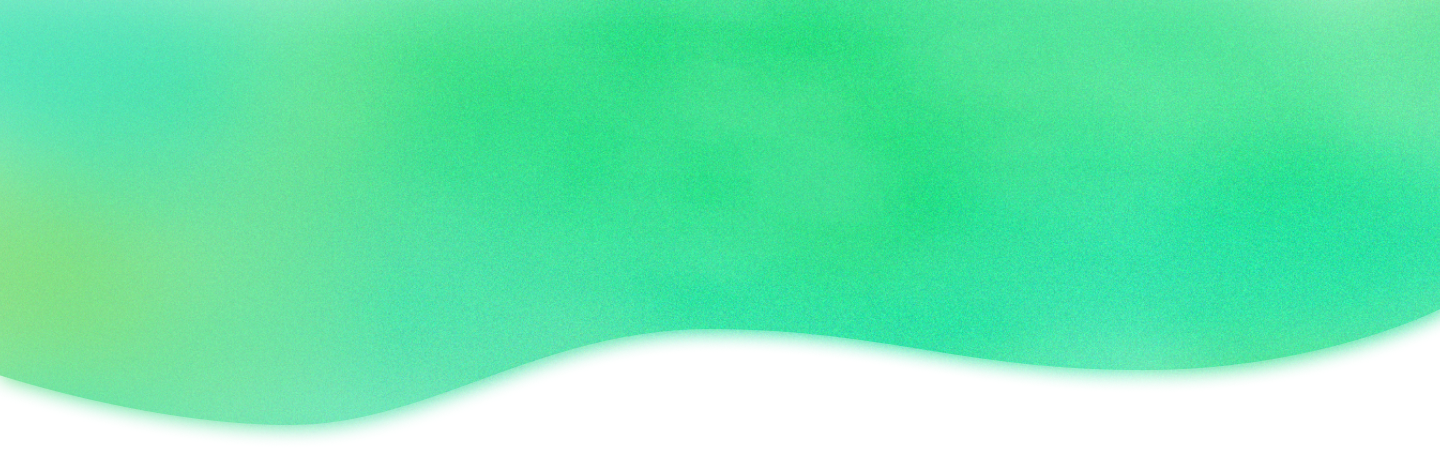
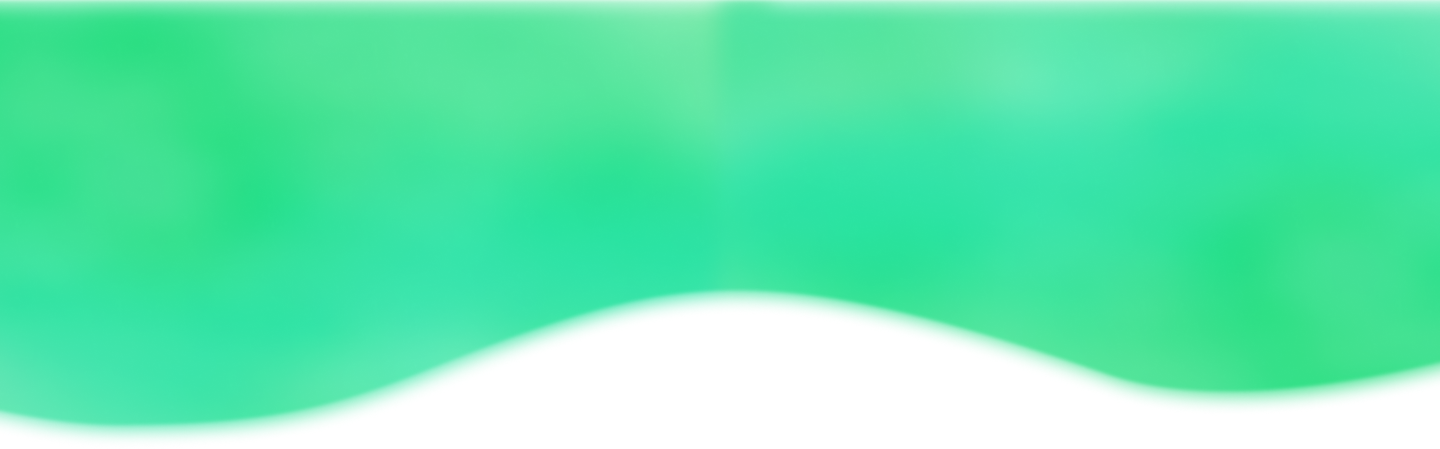
main스타일

diff --git a/src/components/Main/style.ts b/src/components/Main/style.ts
@@ -6,20 +6,56 @@ export const MainContainer = styled.div`
     display: flex;
     flex-direction: column;
     align-items: center;
-    overflow-y: auto;
-
     font-family: Pretendard-regular;
+    padding: 0; // Ensure there's no padding that can affect the full-width layout
+    margin: 0; // Ensure there's no margin
+`
+export const BannerImage = styled.img`
+    width: 1450px;
+    height: 550px;
+    z-index: -1;
+    object-fit: cover;
+    position: absolute;
+    top: 0;
+    left: 0;
 `
 
-export const BannerContainer = styled.div`
-    width: 100%;
-    height: 300px;
-    background-color: #1dcb8e;
-    display: flex;
-    flex-direction: column;
-    justify-content: flex-start;
-    align-items: center;
-`
+export const BannerContainer = styled.div``
+
+// export const BannerContainer = styled.div`
+//     width: 1450px;
+//     height: 550px; /* height 값을 늘림 */
+//     flex-shrink: 0;
+//     background-color: #FAFAFA;
+//     background-image: url('MainBanner.png');
+//     background-position: center; /* 이미지를 가운데로 정렬 */
+//     background-size: cover; /* 이미지를 컨테이너에 맞게 확대 또는 축소 */
+//     background-repeat: no-repeat;
+//     position: relative;
+
+//     &::before,
+//     &::after {
+//         content: '';
+//         position: absolute;
+//         width: 100%;
+//         height: 20px;
+//         background: url('wave-image.png');
+//         background-repeat: repeat-x;
+//         animation: wave-animation 5s linear infinite;
+//         background-size: cover;
+//     }
+
+//     &::before {
+//         top: 0;
+//         background-position: 0 0;
+//     }
+
+//     &::after {
+//         bottom: 0;
+//         background-position: 0 100%;
+//     }
+// `
+// ====================================================
 
 export const BtnContainer = styled.div`
     display: flex;
@@ -100,16 +136,111 @@ export const Text1 = styled.h2`
     font-size: 20px;
 `
 export const Text2 = styled.div`
-    color: aliceblue;
-    margin-top: 20px;
-    font-size: 25px;
-    font-weight: bold;
-    text-align: left;
+    color: #353535;
+    font-family: Pretendard Variable;
+    font-size: 22px;
+    font-style: normal;
+    font-weight: 700;
+    line-height: 28px; /* 127.273% */
 `
 export const Text3 = styled.h2`
-    color: aliceblue;
+    color: #353535;
     margin-top: 20px;
-    font-size: 35px;
-    font-weight: bold;
-    text-align: left;
+    font-family: Pretendard Variable;
+    font-size: 30px;
+    font-style: normal;
+    font-weight: 700;
+    line-height: 36px; /* 120% */
+`
+
+// export const PetBackImage = styled.h2`
+//     position: absolute;
+//     top: 50%;
+//     left: 50%;
+//     transform: translate(-50%, -50%);
+//     z-index: -1;
+// `
+
+// export const PetBackImage = styled.img`
+//     position: absolute;
+//     top: 140vh; // 화면 높이에 비례하여 위치 조정
+//     left: 50%;
+//     transform: translateX(-50%);
+//     z-index: -1;
+//     width: 100vw; // 화면 너비의 100% 차지
+//     height: auto; // 이미지의 종횡비 유지
+//     padding-top: 100px;
+// `
+
+export const PetText = styled.div`
+    flex: 1; // 텍스트 영역이 차지할 공간
+    text-align: left; // 텍스트 왼쪽 정렬
+    color: #000;
+    font-family: Pretendard Variable;
+    font-size: 30px;
+    font-style: normal;
+    font-weight: 700;
+    line-height: 36px; /* 120% */
+`
+export const PetText1 = styled.div`
+    flex: 1; // 텍스트 영역이 차지할 공간
+    text-align: left; // 텍스트 왼쪽 정렬
+    margin-right: 50px;
+    color: var(--Gray3, #575756);
+    font-family: Pretendard Variable;
+    font-size: 18px;
+    font-style: normal;
+    font-weight: 400;
+    line-height: 20px;
+    margin-top: 10px;
+`
+export const PetText2 = styled.div`
+    flex: 1; // 텍스트 영역이 차지할 공간
+    text-align: left; // 텍스트 왼쪽 정렬
+    margin-right: 50px;
+    color: var(--Gray3, #575756);
+    font-family: Pretendard Variable;
+    font-size: 14px;
+    font-style: normal;
+    font-weight: 400;
+    line-height: 16px; /* 114.286% */
+    margin-top: 30px;
+`
+
+export const PetContent = styled.div`
+    display: flex;
+    align-items: center;
+    justify-content: space-between;
+    width: 100%;
+    max-width: 1280px;
+    position: relative; // This will ensure the content is on top of the background image
+`
+
+export const PetTextWrapper = styled.div`
+    display: flex;
+    flex-direction: column; // 텍스트를 수직으로 나열합니다.
+    margin-right: 10px; // 이미지와의 간격을 설정합니다.
+    align-items: flex-start; // 텍스트를 왼쪽 정렬합니다.
+`
+
+export const MainTopWrapper = styled.div`
+    display: flex; // 이미지도 flex 아이템으로 만듭니다.
+    flex-direction: column; // 이미지 내부 아이템을 수직으로 나열합니다.
+    align-items: center; // 이미지 내부 아이템을 중앙 정렬합니다.
+`
+export const OverlayContainer = styled.div`
+    position: relative;
+    width: 100%;
+    max-width: 1280px;
+    margin: auto;
+`
+
+export const PetBackImage = styled.img`
+    position: absolute;
+    top: 0;
+    left: 50%;
+    transform: translateX(-50%);
+    z-index: -1; // Ensures it's behind the content
+    width: 100vw; // Now the image will span the full width of the viewport
+    height: auto; // Maintain aspect ratio
 `

diff --git a/src/components/Main/MainTop/style.ts b/src/components/Main/MainTop/style.ts
@@ -1,72 +1,19 @@
-// import styled from 'styled-components'
+import styled from 'styled-components'
 
-// export const TopContainer = styled.div`
-//     max-width: 1800px;
-//     margin: 50px auto;
-//     display: flex;
-//     flex-direction: column;
-//     align-items: center;
-// `
+export const TopContainer = styled.div`
+    max-width: 2000px;
+    margin: 50px auto;
+    padding-top: 150px;
+    display: flex;
+    flex-direction: column;
+    align-items: center;
+`
 
 // export const Text = styled.h2`
 //     font-size: 35px;
 //     font-weight: bold;
 //     margin-bottom: 20px;
 // `
-
-// export const Content = styled.div`
-//     display: flex;
-//     flex-wrap: wrap;
-//     justify-content: center;
-//     gap: 20px;
-//     max-width: 600px;
-//     margin: auto;
-// `
-
-// export const Inside = styled.div`
-//     flex: 0 0 calc(33.333% - 20px);
-//     height: 213px;
-//     flex-shrink: 0;
-//     overflow: hidden;
-//     border-radius: 15px;
-//     box-shadow: 0 1px 1px rgba(0, 0, 0, 0.2);
-
-//     &:nth-child(odd) {
-//         align-self: flex-start;
-//         /* flex-basis: calc(50% - 20px);  */
-//         flex-basis: calc(33.333% 250px);
-//         height: 213px;
-//     }
-//     &:nth-child(even) {
-//         align-self: flex-end;
-//         /* flex-basis: calc(40% - 20px); */
-//         flex-basis: calc(33.333% 250px);
-//         height: 230.357px;
-//         margin-top: 50px;
-//     }
-// `
-
-// export const Img = styled.img`
-//     width: 100%;
-//     height: 100%;
-//     object-fit: cover;
-// `
-
-import styled from 'styled-components'
-
-export const TopContainer = styled.div`
-    max-width: 2000px;
-    margin: 50px auto;
-    display: flex;
-    flex-direction: column;
-    align-items: center;
-`
-
-export const Text = styled.h2`
-    font-size: 35px;
-    font-weight: bold;
-    margin-bottom: 20px;
-`
 
 export const Content = styled.div`
     display: grid;

diff --git a/src/components/Main/Main.tsx b/src/components/Main/Main.tsx
@@ -15,6 +15,7 @@ const Main: React.FC = () => {
         <ST.MainContainer>
             <ST.BannerContainer>
                 <ST.Warp>
+                    <ST.BannerImage src="/public/MainBanner.png" alt="Main Banner" />
                     <ST.Text2>
                         반려동물과 함께하는 매칭서비스, 와르와르 <br />
                         <ST.Text3>Shop 또는 Pet을 등록해보세요!</ST.Text3>
@@ -85,14 +86,21 @@ const Main: React.FC = () => {
             </ST.BannerContainer>
 
             <ST.TopWrapper>
-                {/* SHOP 카테고리 슬라이드 */}
                 <Category />
             </ST.TopWrapper>
 
-            <ST.TopWrapper>
-                {/* PET 목록 */}
-                <MainTop />
-            </ST.TopWrapper>
+            <ST.OverlayContainer>
+                {/* PET List */}
+                <ST.PetContent>
+                    <ST.PetTextWrapper>
+                        <ST.PetText>Pet</ST.PetText>
+                        <ST.PetText1>다들 우리 애기 보고 가세요!</ST.PetText1>
+                        <ST.PetText2>더보기 ⇀</ST.PetText2>
+                    </ST.PetTextWrapper>
+                    <MainTop />
+                </ST.PetContent>
+                <ST.PetBackImage src="/public/PetBack.png" alt="Pet Back" />
+            </ST.OverlayContainer>
         </ST.MainContainer>
     )
 }

diff --git a/src/components/Map/MapComponent.tsx b/src/components/Map/MapComponent.tsx
@@ -78,7 +78,6 @@ const MapComponent: React.FC<MapComponentProps> = ({ coords }) => {
                 y: parseFloat(place.y),
                 x: parseFloat(place.x),
                 address_name: place.address_name,
-                // 기타 필드...
             }));
 
             const response = await instance.post('/api/map', transformedPlaces);

diff --git a/src/components/Main/MainTop/MainTop.tsx b/src/components/Main/MainTop/MainTop.tsx
@@ -40,7 +40,7 @@ const MainTop: React.FC = () => {
 
     return (
         <ST.TopContainer>
-            <ST.Text>Pet</ST.Text>
+            {/* <ST.Text>Pet</ST.Text> */}
             <ST.Content>
                 {pets.slice(0, 6).map(
                     (
